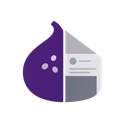
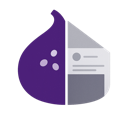
fix(popup): 修复 locale JSON 语法错误，优化 header 图标与布局
- 修复 _locales/zh_CN/messages.json 中中文弯引号导致的 JSON 解析错误
- 裁剪图标白边生成 figclip_icon_cropped.png，重新导出 16/48/128px 图标使视觉尺寸更大
- popup header 新增图标（22px）置于标题左侧
- 缩小 header 整体高度：padding 16px→10px/14px，h1 字号 20px→16px
- icon-btn 尺寸 32px→28px，header-actions gap 8px→4px

Changed region(s): [[0.125, 0.0625, 0.875, 0.8438]]

diff --git a/popup.css b/popup.css
@@ -24,26 +24,38 @@ header {
   display: flex;
   justify-content: space-between;
   align-items: center;
-  padding: 16px;
+  padding: 10px 14px;
   border-bottom: 1px solid rgb(47, 51, 54);
 }
 
+.header-title {
+  display: flex;
+  align-items: center;
+  gap: 7px;
+}
+
+.header-icon {
+  width: 22px;
+  height: 22px;
+  object-fit: contain;
+}
+
 header h1 {
-  font-size: 20px;
+  font-size: 16px;
   font-weight: 700;
 }
 
 .header-actions {
   display: flex;
-  gap: 8px;
+  gap: 4px;
 }
 
 .icon-btn {
   display: flex;
   align-items: center;
   justify-content: center;
-  width: 32px;
-  height: 32px;
+  width: 28px;
+  height: 28px;
   border: none;
   border-radius: 50%;
   background-color: transparent;

diff --git a/popup.html b/popup.html
@@ -9,7 +9,10 @@
 <body>
   <div class="container">
     <header>
-      <h1>FigClip</h1>
+      <div class="header-title">
+        <img src="icons/figclip_icon 48px.png" class="header-icon" alt="FigClip">
+        <h1>FigClip</h1>
+      </div>
       <div class="header-actions">
         <button id="refreshBtn" class="icon-btn" data-i18n-title="popup_refresh_btn_title">
           <svg viewBox="0 0 24 24" width="18" height="18" fill="currentColor">
